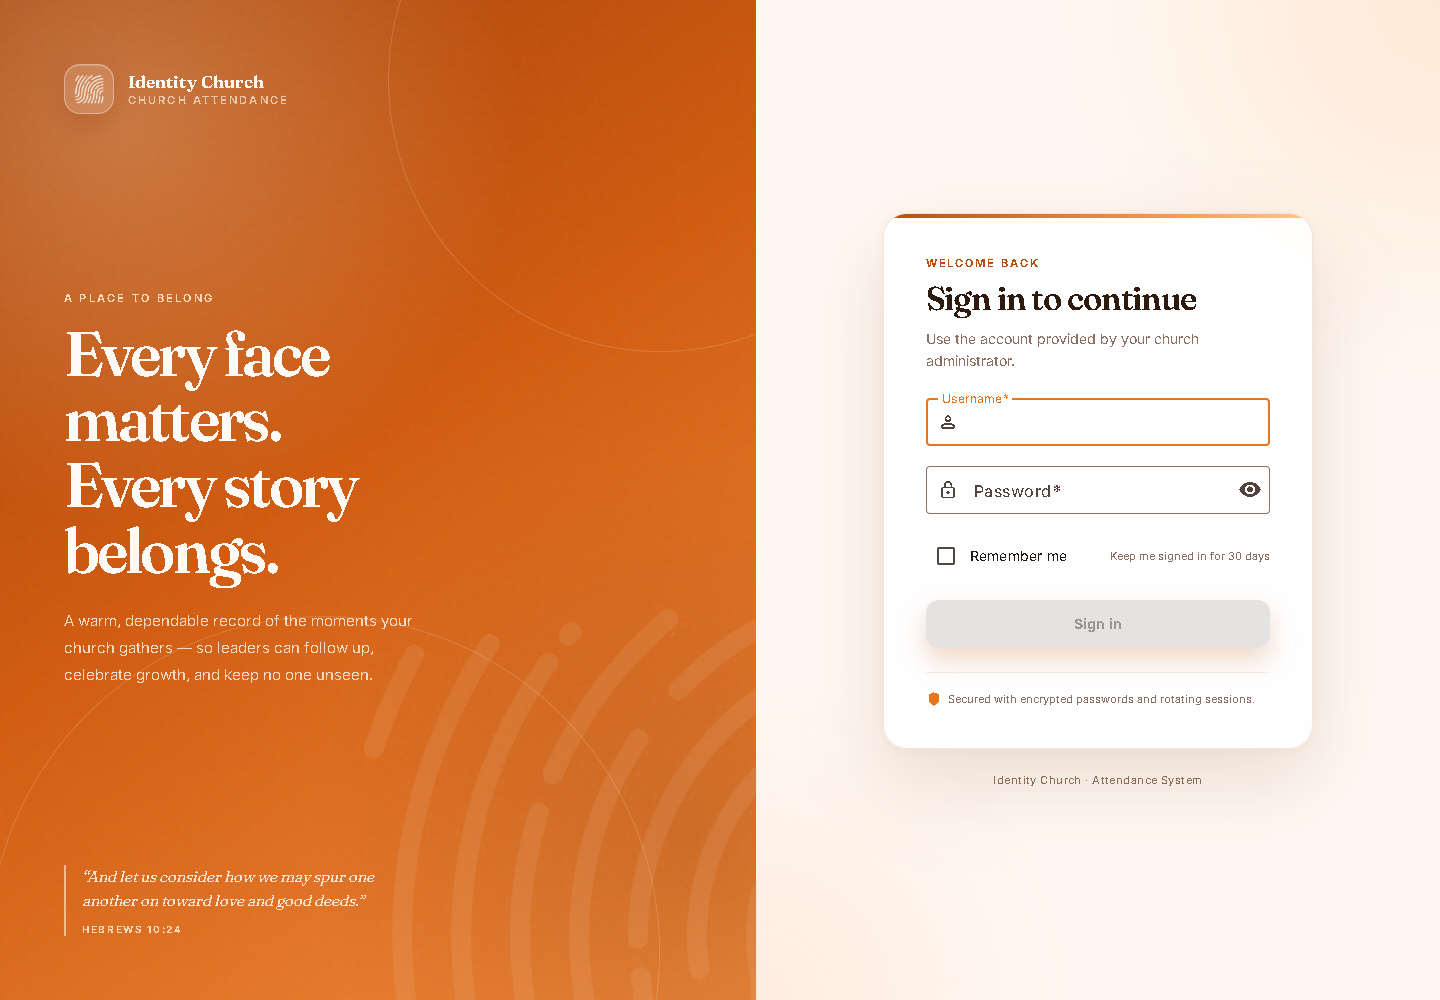
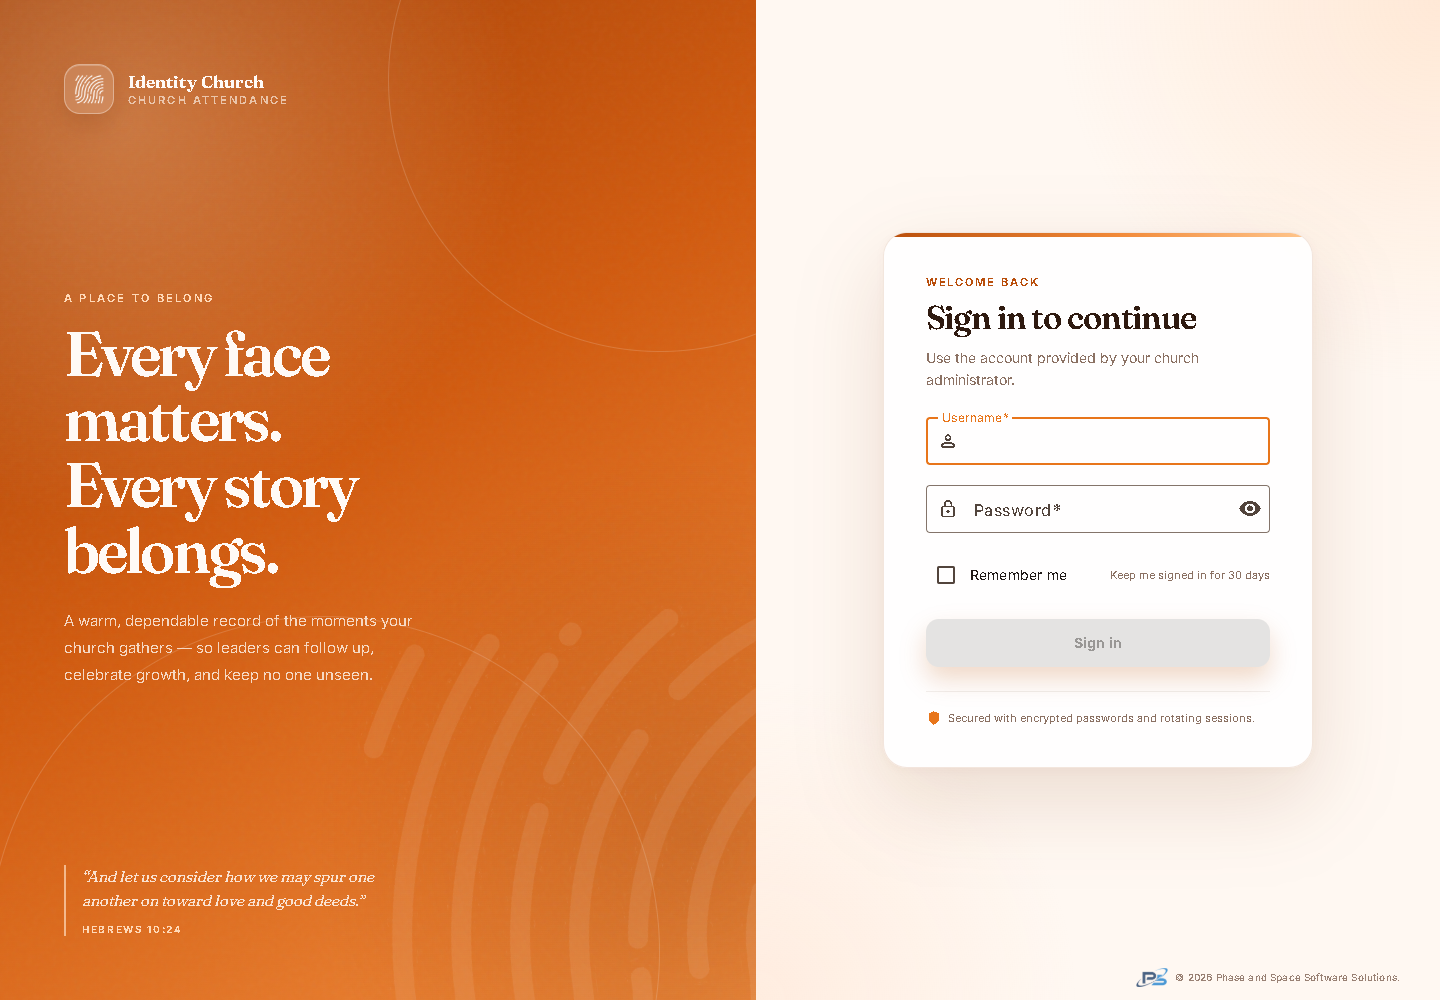
Add Phase and Space copyright footer

diff --git a/frontend/src/app/shared/copyright.component.ts b/frontend/src/app/shared/copyright.component.ts
@@ -1,0 +1,56 @@
+import { ChangeDetectionStrategy, Component } from '@angular/core';
+
+@Component({
+  selector: 'app-copyright',
+  standalone: true,
+  changeDetection: ChangeDetectionStrategy.OnPush,
+  template: `
+    <div class="credit">
+      <img src="phase-space-mark.png" alt="" aria-hidden="true" />
+      <span>© {{ year }} Phase and Space Software Solutions.</span>
+    </div>
+  `,
+  styles: [
+    `
+      :host {
+        display: block;
+        width: 100%;
+      }
+
+      .credit {
+        display: flex;
+        align-items: center;
+        justify-content: flex-end;
+        gap: 0.45rem;
+        padding: 0.8rem clamp(1rem, 3vw, 2.5rem);
+        color: var(--church-muted);
+        font-size: 0.65rem;
+        font-weight: 500;
+        letter-spacing: 0.015em;
+        line-height: 1.3;
+        opacity: 0.88;
+      }
+
+      img {
+        width: auto;
+        height: 1.2rem;
+        opacity: 0.82;
+      }
+
+      @media (max-width: 600px) {
+        .credit {
+          justify-content: flex-end;
+          padding: 0.7rem 1rem;
+          font-size: 0.6rem;
+        }
+
+        img {
+          height: 1rem;
+        }
+      }
+    `
+  ]
+})
+export class CopyrightComponent {
+  readonly year = new Date().getFullYear();
+}

diff --git a/frontend/src/app/features/auth/change-password.component.ts b/frontend/src/app/features/auth/change-password.component.ts
@@ -9,6 +9,7 @@ import { MatProgressSpinnerModule } from '@angular/material/progress-spinner';
 import { MatSnackBar, MatSnackBarModule } from '@angular/material/snack-bar';
 import { AuthService } from '../../core/services/auth.service';
 import { apiErrorMessage } from '../../core/utils';
+import { CopyrightComponent } from '../../shared/copyright.component';
 
 @Component({
   selector: 'app-change-password',
@@ -20,7 +21,8 @@ import { apiErrorMessage } from '../../core/utils';
     MatIconModule,
     MatInputModule,
     MatProgressSpinnerModule,
-    MatSnackBarModule
+    MatSnackBarModule,
+    CopyrightComponent
   ],
   templateUrl: './change-password.component.html',
   styleUrl: './change-password.component.scss'

diff --git a/frontend/src/app/features/auth/login.component.ts b/frontend/src/app/features/auth/login.component.ts
@@ -9,6 +9,7 @@ import { MatInputModule } from '@angular/material/input';
 import { MatProgressSpinnerModule } from '@angular/material/progress-spinner';
 import { AuthService } from '../../core/services/auth.service';
 import { apiErrorMessage } from '../../core/utils';
+import { CopyrightComponent } from '../../shared/copyright.component';
 
 @Component({
   selector: 'app-login',
@@ -20,7 +21,8 @@ import { apiErrorMessage } from '../../core/utils';
     MatFormFieldModule,
     MatIconModule,
     MatInputModule,
-    MatProgressSpinnerModule
+    MatProgressSpinnerModule,
+    CopyrightComponent
   ],
   templateUrl: './login.component.html',
   styleUrl: './login.component.scss'

diff --git a/frontend/src/app/features/auth/login.component.scss b/frontend/src/app/features/auth/login.component.scss
@@ -195,6 +195,7 @@
 }
 
 .panel {
+  position: relative;
   display: grid;
   padding: clamp(1.5rem, 4vw, 3rem);
   background:
@@ -202,6 +203,13 @@
     radial-gradient(circle at 0% 100%, rgba(255, 227, 208, 0.55), transparent 20rem),
     var(--church-cream);
   place-items: center;
+}
+
+.auth-credit {
+  position: absolute;
+  right: 0;
+  bottom: 0;
+  left: 0;
 }
 
 .panel__inner {
@@ -335,14 +343,6 @@
   height: 1rem;
   font-size: 1rem;
   color: var(--church-orange);
-}
-
-.copyright {
-  margin: 1.5rem 0 0;
-  color: var(--church-muted);
-  font-size: 0.68rem;
-  letter-spacing: 0.04em;
-  text-align: center;
 }
 
 @media (max-width: 900px) {

diff --git a/frontend/src/app/features/shell/shell.component.scss b/frontend/src/app/features/shell/shell.component.scss
@@ -137,6 +137,9 @@
 }
 
 .content {
+  display: flex;
+  min-height: 100dvh;
+  flex-direction: column;
   background:
     radial-gradient(circle at 91% 3%, rgba(255, 192, 143, 0.22), transparent 27rem),
     radial-gradient(circle at 8% 96%, rgba(255, 225, 203, 0.45), transparent 24rem),
@@ -238,9 +241,18 @@
 }
 
 .page {
+  width: 100%;
   max-width: 1440px;
+  flex: 1;
   margin: 0 auto;
-  padding: 2rem clamp(1rem, 3vw, 2.5rem) 3rem;
+  padding: 2rem clamp(1rem, 3vw, 2.5rem) 1rem;
+}
+
+.shell-credit {
+  width: 100%;
+  max-width: 1440px;
+  margin: auto auto 0;
+  padding-bottom: 0.15rem;
 }
 
 @media (max-width: 900px) {

diff --git a/frontend/src/app/features/shell/shell.component.ts b/frontend/src/app/features/shell/shell.component.ts
@@ -11,6 +11,7 @@ import { MatMenuModule } from '@angular/material/menu';
 import { MatDividerModule } from '@angular/material/divider';
 import { AuthService } from '../../core/services/auth.service';
 import { Role } from '../../core/models/auth.model';
+import { CopyrightComponent } from '../../shared/copyright.component';
 
 interface NavItem {
   label: string;
@@ -31,7 +32,8 @@ interface NavItem {
     MatIconModule,
     MatButtonModule,
     MatMenuModule,
-    MatDividerModule
+    MatDividerModule,
+    CopyrightComponent
   ],
   templateUrl: './shell.component.html',
   styleUrl: './shell.component.scss'

diff --git a/frontend/src/app/features/auth/change-password.component.scss b/frontend/src/app/features/auth/change-password.component.scss
@@ -3,6 +3,7 @@
 }
 
 .password-shell {
+  position: relative;
   display: grid;
   min-height: 100dvh;
   padding: 2rem 1rem;
@@ -11,6 +12,13 @@
     radial-gradient(circle at 90% 80%, rgba(232, 117, 26, 0.1), transparent 26rem),
     var(--church-cream);
   place-items: center;
+}
+
+.auth-credit {
+  position: absolute;
+  right: 0;
+  bottom: 0;
+  left: 0;
 }
 
 .password-card {

diff --git a/frontend/src/app/features/auth/login.component.html b/frontend/src/app/features/auth/login.component.html
@@ -118,8 +118,8 @@
           Secured with encrypted passwords and rotating sessions.
         </p>
       </div>
-
-      <p class="copyright">Identity Church · Attendance System</p>
     </div>
+
+    <app-copyright class="auth-credit" />
   </section>
 </div>

diff --git a/frontend/src/app/features/auth/change-password.component.html b/frontend/src/app/features/auth/change-password.component.html
@@ -112,4 +112,6 @@
 
     <button mat-button type="button" class="signout" (click)="signOut()">Sign out instead</button>
   </div>
+
+  <app-copyright class="auth-credit" />
 </div>

diff --git a/frontend/src/app/features/shell/shell.component.html b/frontend/src/app/features/shell/shell.component.html
@@ -83,5 +83,7 @@
     <main class="page">
       <router-outlet />
     </main>
+
+    <app-copyright class="shell-credit" />
   </mat-sidenav-content>
 </mat-sidenav-container>

diff --git a/README.md b/README.md
@@ -320,3 +320,8 @@ The implementation keeps the intended Clean-ish layering while staying pragmatic
 - `Infrastructure` owns EF Core, migrations, JWT/BCrypt implementations, and seeding.
 - `Api` owns controllers, auth middleware, ProblemDetails handling, Swagger, and startup.
 - Frontend feature folders follow `core / shared / features`, with lazy-loaded standalone routes and functional guards/interceptors.
+
+---
+
+© 2026 Phase and Space Software Solutions.
+
